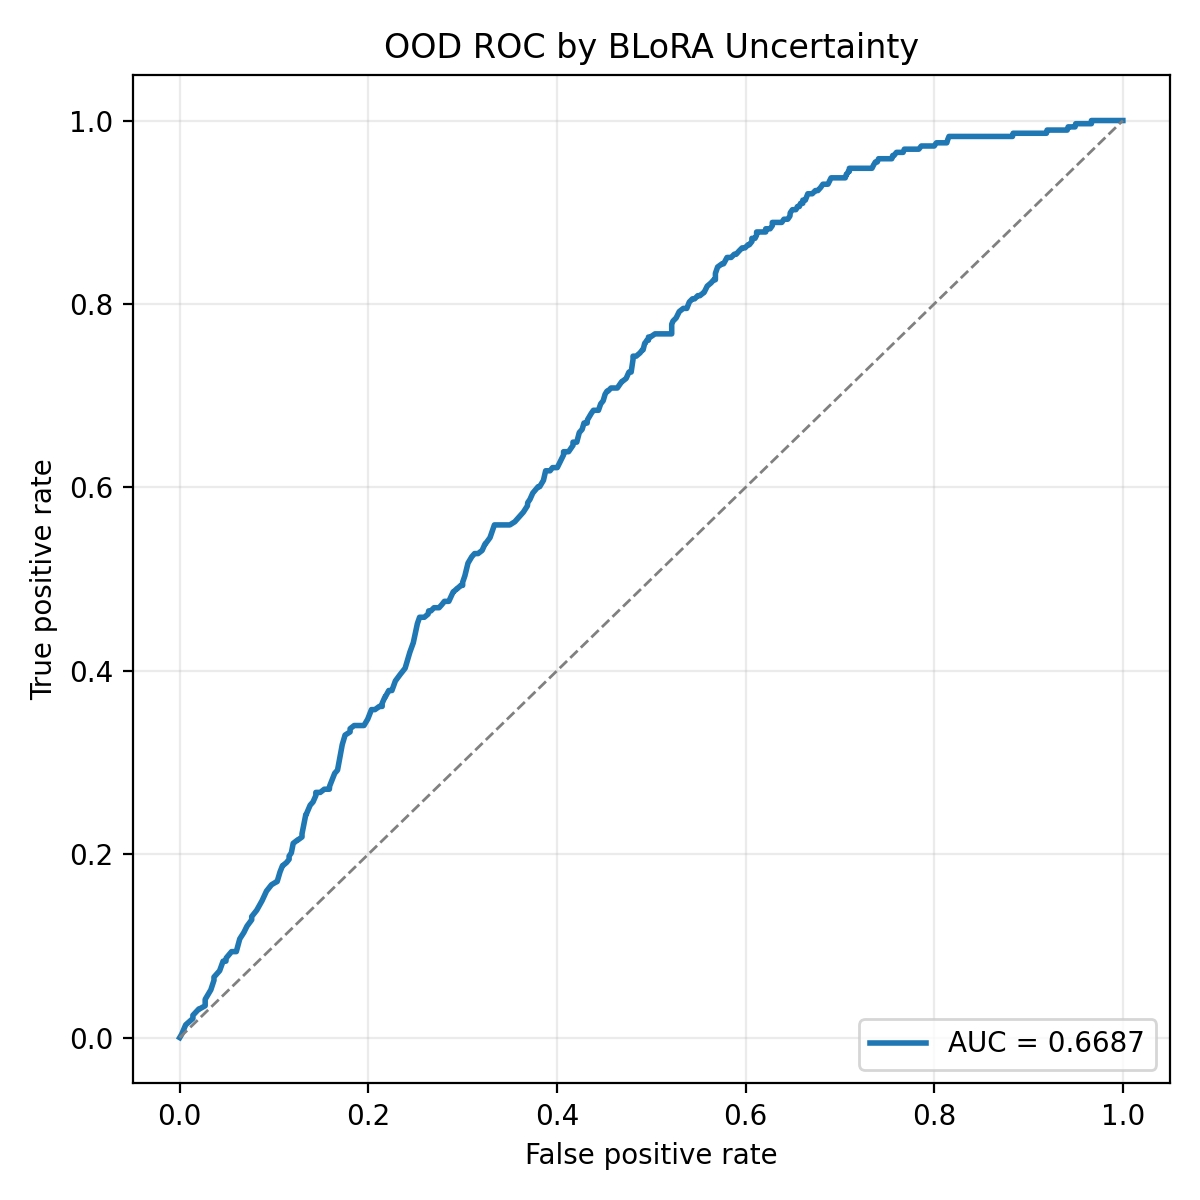
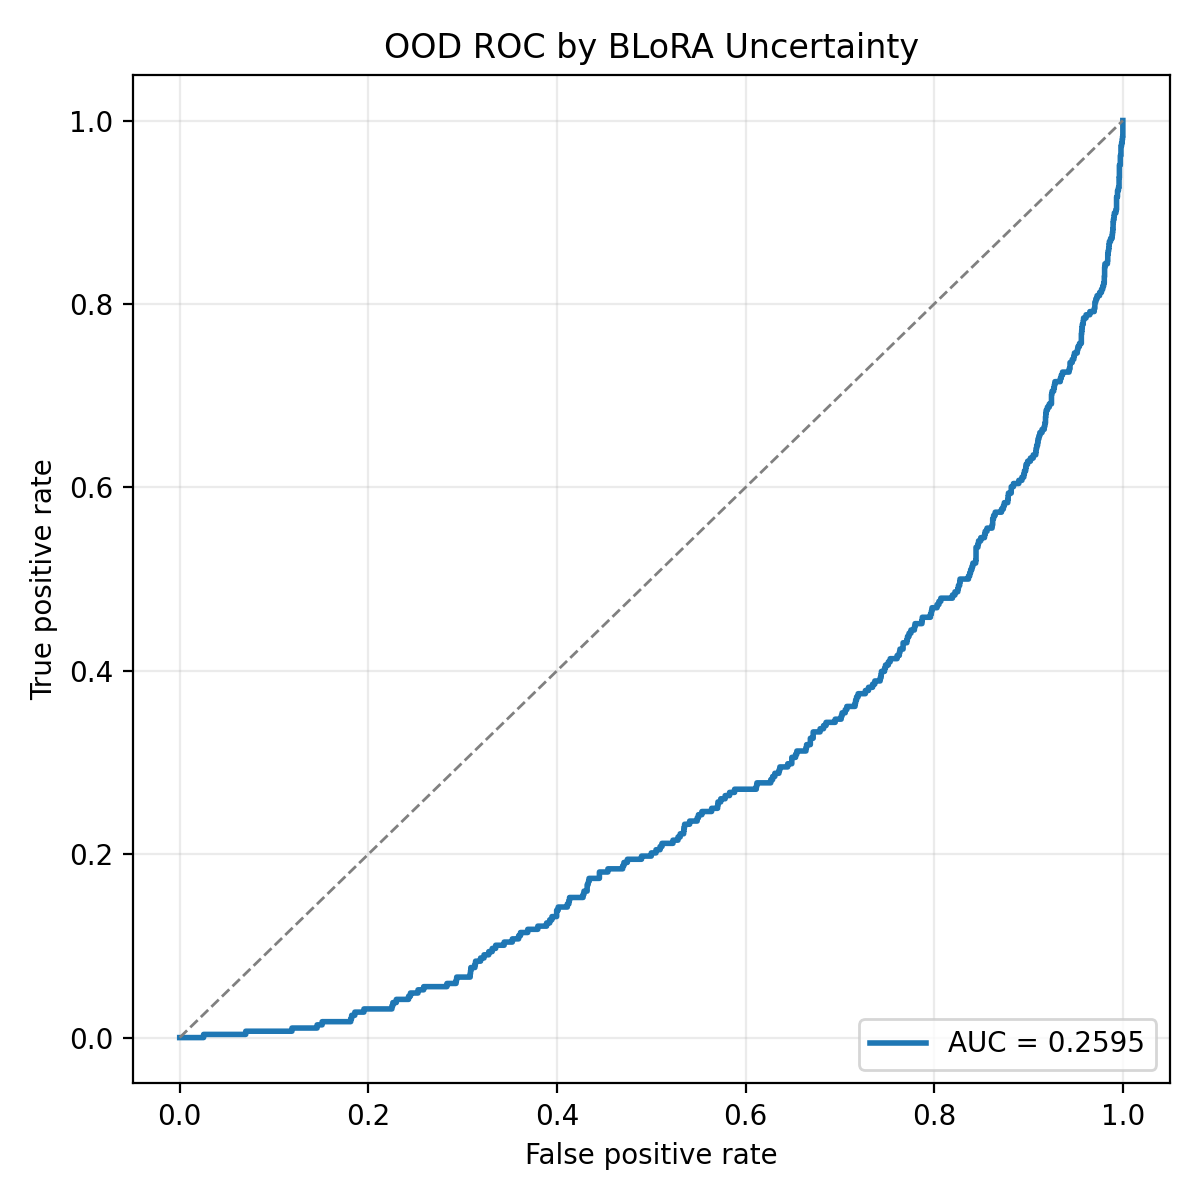
LL experiment finished

diff --git a/src/vlm_uncertainty/models/blip.py b/src/vlm_uncertainty/models/blip.py
@@ -242,8 +242,6 @@ class BLIPWrapper(nn.Module):
             raise RuntimeError("Bayesian-LoRA factors are not loaded.")
         if self.bayesian_lora_top_k < 1:
             raise ValueError("bayesian_lora_top_k must be at least 1.")
-        if self.bayesian_lora_top_k < 2:
-            raise ValueError("Bayesian-LoRA top-2 gap uncertainty requires top_k >= 2.")
 
         try:
             from bayesian_lora import variance
@@ -295,7 +293,6 @@ class BLIPWrapper(nn.Module):
             )
 
         sigma = torch.sqrt(torch.diagonal(covariance, dim1=-2, dim2=-1).clamp_min(0.0))
-        uncertainty = mu[:, 0] - mu[:, 1]
         token_ids_cpu = token_ids.detach().cpu()
         tokens = [
             self.processor.tokenizer.convert_ids_to_tokens(row)
@@ -308,7 +305,7 @@ class BLIPWrapper(nn.Module):
             "tokens": tokens,
             "mu": mu.detach().cpu().tolist(),
             "sigma": sigma_cpu.tolist(),
-            "uncertainty": uncertainty.detach().cpu().tolist(),
+            "uncertainty": sigma_cpu.mean(dim=1).tolist(),
         }
 
     def mc_dropout_predictive_entropy(

diff --git a/scripts/plot/plot_BLoRA.py b/scripts/plot/plot_BLoRA.py
@@ -110,8 +110,8 @@ def plot_roc(
 ) -> tuple[Path, float, tuple[float, float] | None]:
     output_path = output_dir / "blora_uncertainty_roc.png"
 
-    y_true = np.concatenate([np.zeros_like(-id_scores), np.ones_like(-ood_scores)])
-    scores = np.concatenate([-id_scores, -ood_scores])
+    y_true = np.concatenate([np.zeros_like(id_scores), np.ones_like(ood_scores)])
+    scores = np.concatenate([id_scores, ood_scores])
     fpr, tpr, _ = roc_curve(y_true, scores)
     roc_auc = auc(fpr, tpr)
 

diff --git a/scripts/inference/run_blip_inference.py b/scripts/inference/run_blip_inference.py
@@ -5,7 +5,7 @@ from vlm_uncertainty.data.imagenet import load_downloaded_imagenet
 from vlm_uncertainty.evaluation.runner import run_caption_inference
 from vlm_uncertainty.models.blip import BLIPWrapper, DEFAULT_CAPTION_PREFIX
 
-DATA_PATH = "data/output/imagenet/validation"
+DATA_PATH = "data/output/ninco/textures"
 
 
 def zero_one_to_bool(value: str) -> bool:
